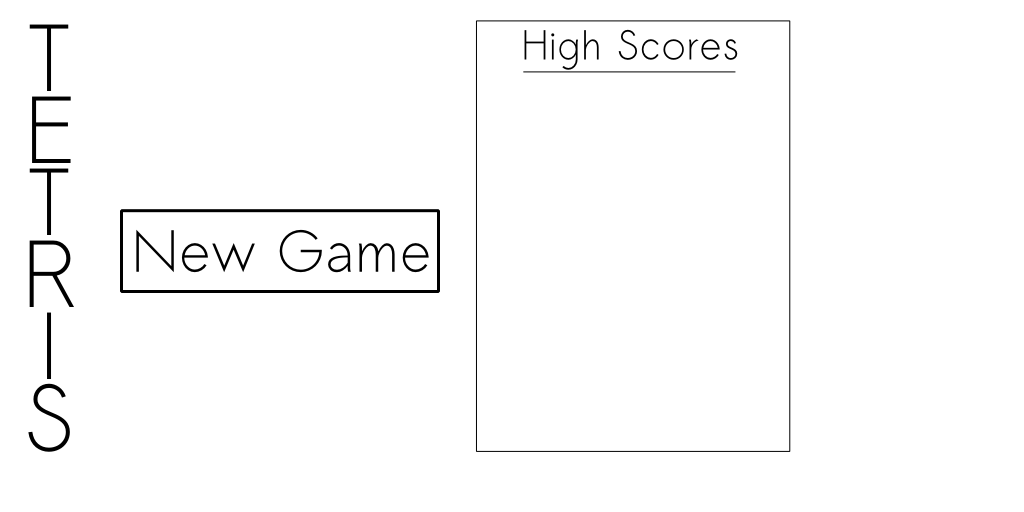
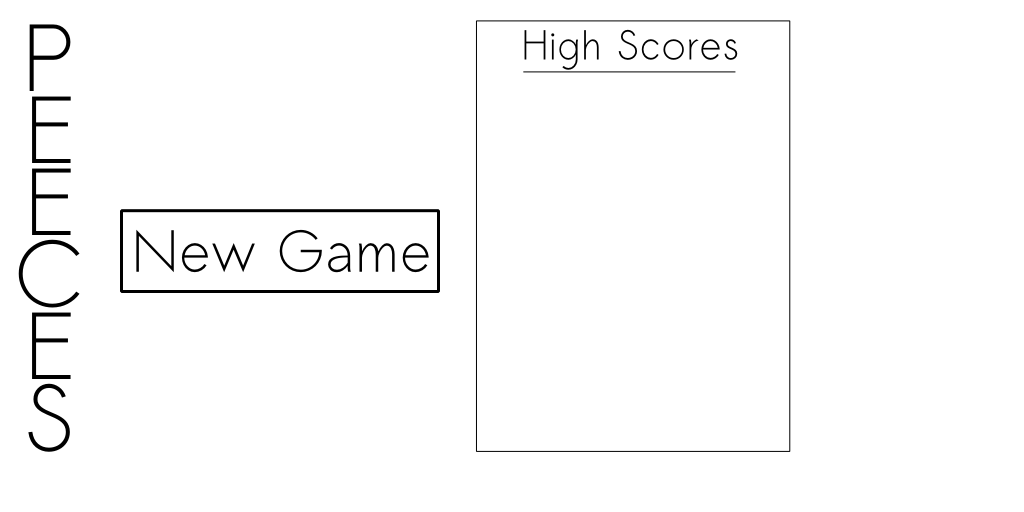
Added pause screen with menu option, changed to non-tetris name in graphics

Changed region(s): [[0.0, 0.3438, 0.0938, 0.75], [0.0312, 0.0312, 0.0938, 0.1875]]

diff --git a/gdx-tetris/src/com/highestqualitygames/gdx_tetris/GameScreen.java b/gdx-tetris/src/com/highestqualitygames/gdx_tetris/GameScreen.java
@@ -30,7 +30,7 @@ public class GameScreen implements Screen {
 
 	Game game;
 	OrthographicCamera cam;
-	Sprite mm_sprite, block_sprite, over_sprite;
+	Sprite mm_sprite, block_sprite, over_sprite, pause_sprite;
 	BitmapFont font = new BitmapFont();
 
 	// Game variables
@@ -64,6 +64,9 @@ public class GameScreen implements Screen {
 		over_sprite = new Sprite(Assets.overScreen);
 		over_sprite.setPosition(0, 0);
 		
+		pause_sprite = new Sprite(Assets.pauseScreen);
+		pause_sprite.setPosition(0, 0);
+		
 		block_sprite = new Sprite(Assets.block);
 		block_sprite.setPosition(0, 0);
 	}
@@ -78,12 +81,8 @@ public class GameScreen implements Screen {
 		
 		public void draw(){
 			losingState.draw();
-			
-			batch.begin();
-			
+
 			over_sprite.draw(batch);
-			
-			batch.end();
 		}
 		
 		public void update(float delta){
@@ -97,6 +96,55 @@ public class GameScreen implements Screen {
 		}
 	}
 	
+	class PausedState implements GameState {
+		GameState returnState;
+		public PausedState(GameState returnState){
+			this.returnState = returnState;
+		}
+		
+		public void draw(){
+			returnState.draw();
+				
+			pause_sprite.draw(batch);
+		}
+		
+		public void update(float delta){
+			if(touched(Assets.pauseResume)){
+				state = returnState;
+			}
+			
+			if(touched(Assets.pauseMenu)){
+				game.setScreen(new MenuScreen(game));
+			}
+		}
+	}
+	
+	class ClearingState implements GameState {
+		float left = 0.4f;
+		boolean cleared = false;
+		
+		public void draw(){
+			drawGame();
+		}
+		
+		public void update(float delta){
+			if(touched(Assets.gameScreenPause1) || touched(Assets.gameScreenPause2)){
+				state = new PausedState(this);
+			}
+
+			left -= delta;
+			
+			if(left <= 0.2f && !cleared){
+				clearRows();
+				cleared = true;
+			}
+			
+			if(left <= 0){
+				state = new PieceState();
+			}
+		}
+	}
+
 	class PieceState implements GameState {
 		// A square array of length 2/3/4
 		boolean[][] piece = randomPiece();
@@ -204,55 +252,19 @@ public class GameScreen implements Screen {
 		}
 	}
 	
-	class PausedState implements GameState {
-		GameState returnState;
-		public PausedState(GameState returnState){
-			this.returnState = returnState;
-		}
-		
-		public void draw(){
-			returnState.draw();
-		}
-		
-		public void update(float delta){
-			if(touched(Assets.gameScreenPause1) || touched(Assets.gameScreenPause2)){
-				state = returnState;
-			}
-		}
-	}
-	
-	class ClearingState implements GameState {
-		float left = 0.2f;
-		boolean cleared = false;
-		
-		public void draw(){
-			drawGame();
-		}
-		
-		public void update(float delta){
-			if(touched(Assets.gameScreenPause1) || touched(Assets.gameScreenPause2)){
-				state = new PausedState(this);
-			}
-
-			left -= delta;
-			
-			if(left > 0) return;
-			
-			if(left <= 0 && !cleared){
-				clearRows();
-				cleared = true;
-				left = 0.2f;
-			}
-			else {
-				state = new PieceState();
-			}
-		}
-	}
-
 	@Override
 	public void render(float delta) {
+		Gdx.gl.glClearColor(1, 1, 1, 1);
+		Gdx.gl.glClear(GL10.GL_COLOR_BUFFER_BIT);
+		
+		batch.setProjectionMatrix(cam.combined);
+
+		batch.begin();
+		
 		state.draw();
 		state.update(delta);
+		
+		batch.end();
 	}
 	
 	boolean touched(com.badlogic.gdx.math.Rectangle r){
@@ -322,19 +334,10 @@ public class GameScreen implements Screen {
 	}
 	
 	void drawGame(){
-		Gdx.gl.glClearColor(1, 1, 1, 1);
-		Gdx.gl.glClear(GL10.GL_COLOR_BUFFER_BIT);
-		
-		batch.setProjectionMatrix(cam.combined);
-		
-		batch.begin();
 		mm_sprite.draw(batch);
-		batch.end();
 
 		drawBlocks(grid, 0, 0, false);
-		
-		batch.begin();
-		
+
 		Matrix4 bigger = new Matrix4().scale(3.0f, 3.0f, 1.0f);
 		
 		batch.setTransformMatrix(bigger);
@@ -345,14 +348,12 @@ public class GameScreen implements Screen {
 		}
 
 		batch.setTransformMatrix(new Matrix4().idt());
-
-		batch.end();
 	}
 	
 	// flip_y because the grid is stored upside down from the piece.
 	// This is not really a good thing.
 	void drawBlocks(boolean[][] blocks, int x, int y, boolean flip_y){
-		batch.begin();
+		
 
 		float grid_x = Assets.gameScreenGrid.x;
 		float grid_y = Assets.gameScreenGrid.y;
@@ -368,7 +369,7 @@ public class GameScreen implements Screen {
 			}
 		}
 		
-		batch.end();
+		
 	}
 
 	@Override

diff --git a/gdx-tetris/src/com/highestqualitygames/gdx_tetris/Assets.java b/gdx-tetris/src/com/highestqualitygames/gdx_tetris/Assets.java
@@ -8,13 +8,14 @@ import com.badlogic.gdx.graphics.g2d.TextureRegion;
 import com.badlogic.gdx.math.Rectangle;
 
 public class Assets {
-	public static TextureRegion gameScreen, mainScreen, block, overScreen;
+	public static TextureRegion gameScreen, mainScreen, block, overScreen, pauseScreen;
 	
 	// These rectangles are relative to the BG (and so will need adjusted if the camera is not 1:1 with it)
 	public static Rectangle mainScreenStart;
 	
 	public static Rectangle gameScreenRotLeft, gameScreenRotRight, gameScreenLeft, gameScreenRight,
-		gameScreenGrid, gameScreenDrop, gameScreenPause1, gameScreenPause2, overMenu, overRestart;
+		gameScreenGrid, gameScreenDrop, gameScreenPause1, gameScreenPause2, overMenu, overRestart,
+		pauseMenu, pauseResume;
 	
 	public static void load() {
 		Texture texture;
@@ -46,6 +47,13 @@ public class Assets {
 		overScreen = new TextureRegion(texture, 0, 0, 800, 480);
 		overMenu = new Rectangle(251, 198, 138, 78);
 		overRestart = new Rectangle(413, 198, 138, 78);
+
+		texture = new Texture(Gdx.files.internal("data/game-pause.png"));
+		texture.setFilter(TextureFilter.Linear, TextureFilter.Linear);
+		
+		pauseScreen = new TextureRegion(texture, 0, 0, 800, 480);
+		pauseMenu = new Rectangle(251, 198, 138, 78);
+		pauseResume = new Rectangle(413, 198, 138, 78);
 
 		texture = new Texture(Gdx.files.internal("data/block.png"));
 		texture.setFilter(TextureFilter.Linear, TextureFilter.Linear);
